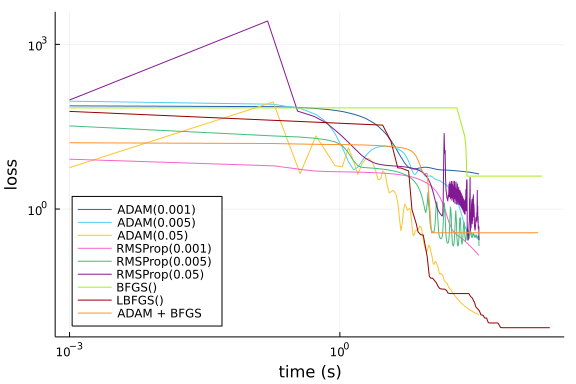
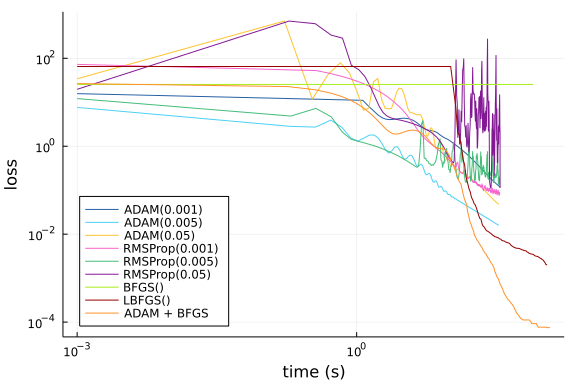
Automatic build\nPublished by build of: https://github.com/SciML/SciMLBenchmarks.jl/commit/61c047455ef7845709acad38f267d75462b74631

diff --git a/markdown/PINNOptimizers/allen_cahn.md b/markdown/PINNOptimizers/allen_cahn.md
@@ -79,7 +79,7 @@ function solve(opt)
     ## NEURAL NETWORK
     n = 20   #neuron number
 
-    chain = Lux.Chain(Lux.Dense(5,n,Lux.σ),Lux.Dense(n,n,Lux.σ),Lux.Dense(n,1))   #Neural network from OptimizationFlux library
+    chain = Lux.Chain(Lux.Dense(5,n,tanh),Lux.Dense(n,n,tanh),Lux.Dense(n,1))   #Neural network from OptimizationFlux library
 
     discretization = PhysicsInformedNN(chain, strategy)
 
@@ -174,17 +174,17 @@ loss_9, times_9 = solve("both")
 ```
 
 ```
-(Any[16.134729057252237, 15.620742551833663, 15.307822296862959, 15.1314197
-85639531, 15.034681110441245, 14.974859713460457, 14.928289296549472, 14.88
-1443836893336, 14.83131024398402, 14.775022993972163  …  0.3697196075359876
-, 0.3697112199436184, 0.3697046266859988, 0.3697044271750105, 0.36970416945
-35506, 0.3696943730463407, 0.3696940929306969, 0.36969361590939315, 0.36969
-361590939315, 0.36969361590939315], Any[0.001, 0.18742895126342773, 0.34653
-306007385254, 0.5352010726928711, 0.7175140380859375, 0.876594066619873, 1.
-0585410594940186, 1.2399868965148926, 1.4213879108428955, 1.580235958099365
-2  …  90.25661706924438, 98.47275495529175, 105.12706184387207, 114.4218599
-7962952, 123.0158269405365, 131.6027638912201, 139.63456988334656, 145.4199
-8100280762, 151.6944968700409, 158.33624291419983])
+(Any[26.567743974600845, 22.68815659346612, 19.183449843343702, 16.05035262
+453601, 13.281843186240838, 10.868019197396226, 8.79565126675499, 7.0480917
+37359222, 5.605747038486074, 4.447032692155303  …  8.075166671786921e-5, 7.
+961553161320333e-5, 7.905398686682212e-5, 7.669427968514353e-5, 7.663201980
+442745e-5, 7.657958597339967e-5, 7.61097035255219e-5, 7.494893897503556e-5,
+ 7.494493346787498e-5, 7.4659491637836e-5], Any[0.001, 0.18399500846862793,
+ 0.3608229160308838, 0.5336778163909912, 0.7062849998474121, 0.878044843673
+706, 1.0503458976745605, 1.2233049869537354, 1.3947649002075195, 1.57020783
+42437744  …  87.56821298599243, 88.09763693809509, 88.4503448009491, 88.978
+20091247559, 98.57003092765808, 108.25928592681885, 108.63129377365112, 108
+.98457479476929, 118.37964677810669, 118.9108510017395])
 ```
 
 
@@ -211,13 +211,13 @@ p = plot([loss_1, loss_2, loss_3, loss_4, loss_5, loss_6, loss_7, loss_8, loss_9
 
 ```
 (loss_1[end], loss_2[end], loss_3[end], loss_4[end], loss_5[end], loss_6[en
-d], loss_7[end], loss_8[end], loss_9[end]) = (4.3489723200496595, 0.2745378
-4064872644, 0.011874923991109534, 0.14379050312817276, 0.21238480466036092,
- 0.27250186083706074, 3.985223070647032, 0.006902465633085464, 0.3696936159
-0939315)
-(4.3489723200496595, 0.27453784064872644, 0.011874923991109534, 0.143790503
-12817276, 0.21238480466036092, 0.27250186083706074, 3.985223070647032, 0.00
-6902465633085464, 0.36969361590939315)
+d], loss_7[end], loss_8[end], loss_9[end]) = (0.11734122479338271, 0.015842
+0514056297, 0.0477406516485296, 0.07689746593308862, 0.1336227906567366, 0.
+11211269356589085, 25.425266552636153, 0.001989564422994538, 7.465949163783
+6e-5)
+(0.11734122479338271, 0.0158420514056297, 0.0477406516485296, 0.07689746593
+308862, 0.1336227906567366, 0.11211269356589085, 25.425266552636153, 0.0019
+89564422994538, 7.4659491637836e-5)
 ```
 
 
@@ -255,7 +255,7 @@ Environment:
 Package Information:
 
 ```
-      Status `/cache/build/exclusive-amdci1-0/julialang/scimlbenchmarks-dot-jl/benchmarks/PINNOptimizers/Project.toml`
+      Status `/cache/build/exclusive-amdci3-0/julialang/scimlbenchmarks-dot-jl/benchmarks/PINNOptimizers/Project.toml`
   [b2108857] Lux v0.4.11
   [961ee093] ModelingToolkit v8.18.1
   [315f7962] NeuralPDE v5.0.0
@@ -269,7 +269,7 @@ Package Information:
 And the full manifest:
 
 ```
-      Status `/cache/build/exclusive-amdci1-0/julialang/scimlbenchmarks-dot-jl/benchmarks/PINNOptimizers/Manifest.toml`
+      Status `/cache/build/exclusive-amdci3-0/julialang/scimlbenchmarks-dot-jl/benchmarks/PINNOptimizers/Manifest.toml`
   [c3fe647b] AbstractAlgebra v0.27.1
   [621f4979] AbstractFFTs v1.2.1
   [1520ce14] AbstractTrees v0.4.2
